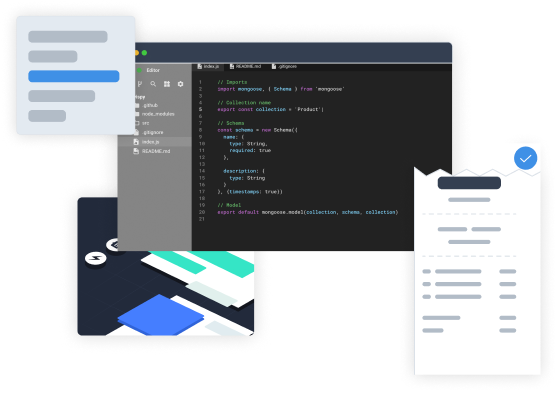
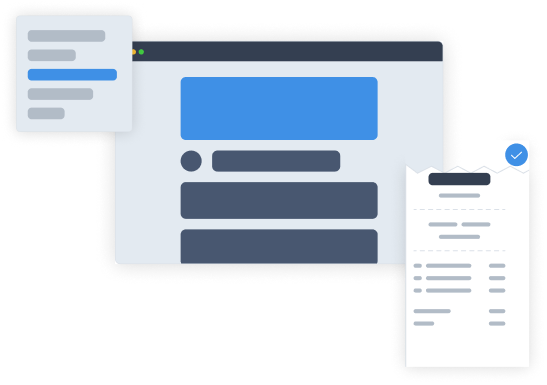
2nd updated more sections

diff --git a/index.html b/index.html
@@ -113,14 +113,14 @@
 
     </section>
 
-    <section class="w-[1920px] h-[7467px]">
+    <section class="flex flex-col gap-[128px] w-[1920px] h-[7467px] mt-[80px]">
 
         <!--FIRST MAIN DIV-->
 
         <DIV class="flex flex-col items-center gap-[24px] w-[425px] h-[162px] mx-auto">
             <div class="flex flex-col items-center gap-[16px] w-[425px] h-[91px] ">
                 <h1 class="w-[250px] h-[48px] text-[48px] text-center leading-[48px] tracking-[-1px] font-[600] bg-gradient-to-r from-[#FE3B76] via-[#AF29CE] to-[#2931DD] bg-clip-text text-transparent ">RAD Server</h1>
-                <p class="w-[425px] h-[27px] text-[18px] text-center leading-[27px] tracking-[0]">Rapidly build and deploy services-based applications!</p>
+                <p class="w-[425px] h-[27px] text-[18px] text-center leading-[27px] tracking-[0] text-[#525252]">Rapidly build and deploy services-based applications!</p>
             </div> 
             <button class="w-[179px] h-[47px] rounded-[12px] bg-[#262626] text-[#FFFFFF] px-[28px] py-[14px]">
                 <p class="w-[123px] h-[19px] leading-[19.2px] font-medium ">Request A Demo</p>
@@ -129,33 +129,290 @@
 
         <!--2ND MAIN DIV FOR MAIN SECTION-->
 
-        <DIV class="flex flex-col items-center w-[1536px] h-[1138px] mx-auto">
-            <div class="flex flex-col items-center w-[1274px] h-[180px] mt-[128px] gap-[24px]">
+        <DIV class="flex flex-col items-center w-[1536px] h-[1138px] mx-auto gap-[80px]">
+            <div class="flex flex-col items-center w-[1274px] h-[180px] gap-[24px]">
                 <p class="w-[912px] h-[48px] font-[600] text-[40px] leading-[48px] tracking-[-1px] text-center">The Perfect Platform for <span class="bg-gradient-to-r from-[#FE3B76] via-[#AF29CE] to-[#2931DD] bg-clip-text text-transparent"> Delphi and C++Builder Apps</span></p>
-                <p class="w-[1274px] h-[108px] font-[400] text-[24px] text-center tracking-[-1px] leading-[36px]">RAD Server supports REST with JSON (or XML) parameter passing and return results. Publish APIs, manage connected users and devices, capture analytics about the use and users of applications, and connect to local and enterprise databases using FireDAC components. RAD Server also supports user authentication, push notifications, geolocation, and data storage.</p>
+                <p class="w-[1274px] h-[108px] font-[400] text-[24px] text-center tracking-[-1px] leading-[36px] text-[#525252]">RAD Server supports REST with JSON (or XML) parameter passing and return results. Publish APIs, manage connected users and devices, capture analytics about the use and users of applications, and connect to local and enterprise databases using FireDAC components. RAD Server also supports user authentication, push notifications, geolocation, and data storage.</p>
             </div>
 
-            <div class="flex w-[1536px] h-[878px] rounded-[16px] mt-[80px]">
+            <div class="flex w-[1536px] h-[878px] rounded-[16px] ">
                 <div class="flex justify-center items-center w-[753px] h-[878px] bg-[#f4f4f5]">
                     <img class="w-[524px] h-[328.81px] " src="Assets/Group 1000003325.png" alt="img">
                 </div>
 
-                <div class="w-[783px] h-[878px]">
+                <div class="w-[783px] h-[878px] px-[32px] py-[48px]">
 
-                    <div class="w-[719px] h-[782px]">
-                        <div class="w-[719px] h-[92px]"></div>
-                        <div class="w-[719px] h-[92px]"></div>
-                        <div class="w-[719px] h-[92px]"></div>
-                        <div class="w-[719px] h-[92px]"></div>
-                        <div class="w-[719px] h-[92px]"></div>
-                        <div class="w-[719px] h-[92px]"></div>
-                        <div class="w-[719px] h-[65px]"></div>
+                    <div class="flex flex-col w-[719px] h-[782px] gap-[32px]">
+                        <div class="w-[719px] h-[92px]">
+                            <p class="w-[719px] h-[30px] font-semibold text-[20px] leading-[150%] text-[#262626]">Modernize</p>
+                            <p class="w-[719px] h-[54px] font-[400] text-[18px] text-[#525252]">Migrate existing Delphi or C++ client/server business logic to a modern services-based architecture that is secure and scalable.</p>
+                        </div>
+                        <div class="w-[719px] h-[92px]">
+                            <p class="w-[719px] h-[30px] font-semibold text-[20px] leading-[150%] text-[#262626]">REST End Point Publishing</p>
+                            <p class="w-[719px] h-[54px] font-[400] text-[18px] leading-[150%] text-[#525252]">Migrate existing Delphi or C++ client/server business logic to a modern services-based architecture that is secure and scalable.</p>
+                        </div>
+                        <div class="w-[719px] h-[65px]">
+                            <p class="w-[719px] h-[30px] font-semibold text-[20px] leading-[150%] text-[#262626]">REST End Point Publishing</p>
+                            <p class="w-[719px] h-[27px] font-[400] text-[18px] leading-[150%] text-[#525252]">An all-in-one turnkey foundation for your application back end APIs and Services.</p>
+                        </div>
+                        <div class="w-[719px] h-[92px]">
+                            <p class="w-[719px] h-[30px] font-semibold text-[20px] leading-[150%] text-[#262626]">Integration Middleware</p>
+                            <p class="w-[719px] h-[54px] font-[400] text-[18px] leading-[150%] text-[#525252]">Integrations provide out of the box connectivity with external servers, applications and services.</p>
+                        </div>
+                        <div class="w-[719px] h-[92px]">
+                            <p class="w-[719px] h-[30px] font-semibold text-[20px] leading-[150%] text-[#262626]">Application Services</p>
+                            <p class="w-[719px] h-[54px] font-[400] text-[18px] leading-[150%] text-[#525252]">Ready-to-use built-in services including user directory services and user management, push notifications, user location tracking, and built-in data storage.</p>
+                        </div>
+                        <div class="w-[719px] h-[92px]">
+                            <p class="w-[719px] h-[30px] font-semibold text-[20px] leading-[150%] text-[#262626]">Easy-To-Deploy</p>
+                            <p class="w-[719px] h-[54px] font-[400] text-[18px] leading-[150%] text-[#525252]">RAD Server is easy to develop, deploy and operate making it ideally suited for ISVs and OEMs building re-deployable solutions.</p>
+                        </div>
+                        <div class="w-[719px] h-[65px]">
+                            <p class="w-[719px] h-[30px] font-semibold text-[20px] leading-[150%] text-[#262626]">Delphi and C++Builder Support</p>
+                            <p class="w-[719px] h-[27px] font-[400] text-[18px] leading-[150%]">RAD Server works out of the box with Delphi and C++Builder.</p>
+                        </div>
 
                     </div>
                 </div>
 
             </div>
         </DIV>
+
+        <!--3rd MAIN DIV OF THIS SECTION-->
+        <DIV class="flex flex-col items-center gap-[80px] w-[1274px] h-[936px] mx-auto relative">
+            <img class="w-[62.47px] h-[114.07px] absolute right-[-31.23px] top-[16px]" src="Assets/Group.png" alt="img">
+
+            <div class="flex flex-col items-center gap-[24px] w-[1274px] h-[114px] text-[40px] text-center leading-[150%] tracking-[-1px] font-[600]  ">
+                <p class="w-[379px] h-[60px] text-center">Outstanding <span class="bg-gradient-to-r from-[#FE3B76] via-[#AF29CE] to-[#2931DD] bg-clip-text text-transparent"> Features </span> </p>
+                <p class="w-[1274px] h-[30px] text-[#525252] text-[20px] font-[400] leading-[150%] tracking-[-1px] text-center">Get RAD Server with RAD Studio, Delphi, and C++Builder</p>
+            </div>
+
+            <div class="flex flex-col gap-[48px] w-[1274px] h-[626px]">
+            <!--FIRST MAIN DIV ROW OF PIC -->
+            <DIV class="flex w-[1274px] h-[306px] gap-[32px]">
+                <div class="flex flex-col gap-[24px] w-[403.33px] h-[242px]">
+                    <img class="w-[48px] h-[48px]" src="Assets/code-svgrepo-com (1) 1.svg" alt="img">
+                    <h3 class="w-[403.33px] h-[34px] font-[600] text-[28px] text-[#222222] leading-[1.2] tracking-[-1.12px]">Access Control</h3>
+                    <p class="w-[403.33px] h-[120px] text-[#707070] text-[20px] font-[400] leading-[1.5] tracking-[-0.1px]">You can set up group and user level access, with authentication, to all application APIs and control who has access to your application's API functionality.</p>
+                </div>
+                <div class="flex flex-col gap-[24px] w-[403.33px] h-[212px]">
+                    <img class="w-[48px] h-[48px]" src="Assets/cloud-data 1.png" alt="img">
+                    <h3 class="w-[403.33px] h-[34px] font-[600] text-[28px] text-[#222222] leading-[1.2] tracking-[-1.12px]">API Analytics</h3>
+                    <p class="w-[403.33px] h-[90px] text-[#707070] text-[20px] font-[400] leading-[1.5] tracking-[0]">All REST API end-point activity is recorded and measured for robust statistics tracking and analytics.</p>
+                </div>
+                <div class="flex flex-col gap-[24px] w-[403.33px] h-[306px]">
+                    <img class="w-[48px] h-[48px]" src="Assets/responsive 2.png" alt="img">
+                    <h3 class="w-[403.33px] h-[68px] font-[600] text-[28px] text-[#222222] leading-[1.2] tracking-[-1.12px]">Desktop, Mobile & Web Client Apps</h3>
+                    <p class="w-[403.33px] h-[150px] text-[#707070] text-[20px] font-[400] leading-[1.5] tracking-[0]">All C++ and Delphi code hosted on RAD Server is published as REST/JSON end points consumable by any client application on multiple platforms for extreme flexibility and future-proofing.</p>
+                </div>
+            </DIV>
+
+            <!--SECOND MAIN DIV ROW OF PIC DIVS-->
+            <DIV class="flex w-[1274px] h-[272px] gap-[32px]">
+               <div class="flex flex-col gap-[24px] w-[403.33px] h-[272px]">
+                <img class="w-[48px] h-[48px]" src="Assets/goal 1.png" alt="img">
+                <h3 class="w-[403.33px] h-[34px] font-[600] text-[28px] text-[#222222] leading-[1.2] tracking-[-1.12px]">Enterprise Data</h3>
+                <p class="w-[403.33px] h-[150px] text-[#707070] text-[20px] font-[400] leading-[1.5] tracking-[0]">RAD Server delivers high performance built-in connectivity to all popular Enterprise RDBMS servers such as Oracle, DB2, Microsoft SQL Server, InterBase, Informix, MySQL Server, etc.</p>
+               </div>
+               <div class="flex flex-col gap-[24px] w-[403.33px] h-[212px]">
+                <img class="w-[48px] h-[48px]" src="Assets/internet-of-things 1.png" alt="img">
+                <h3 class="w-[403.33px] h-[34px] font-[600] text-[28px] text-[#222222] leading-[1.2] tracking-[-1.12px]">IoT Smart Device Connectivity</h3>
+                <p class="w-[403.33px] h-[90px] text-[#707070] text-[20px] font-[400] leading-[30px] tracking-[0]">RAD Studio's IoT components enable fast and easy integration of IoT Smart devices into your application's services.</p>
+               </div>
+               <div class="flex flex-col gap-[24px] w-[403.33px] h-[212px]">
+                <img class="w-[48px] h-[48px]" src="Assets/cloud-computing 1.png" alt="img">
+                <h3 class="w-[403.33px] h-[34px] font-[600] text-[28px] text-[#222222] leading-[1.2] tracking-[-1.12px]">Cloud Services</h3>
+                <p class="w-[403.33px] h-[140px] text-[#707070] text-[20px] font-[400] leading-[1.5] tracking-[0]">Easily integrate REST cloud services from a variety of cloud, social, and BaaS platforms such as Google, Amazon, and more.</p>
+               </div> 
+
+            </DIV>
+             </div>
+
+             <div class="flex  gap-[16px] w-[88px] h-[36px]">
+                <button class="flex justify-center w-[36px] text-[#FFFFFF] h-[36px] rounded-[8px] px-[4px] py-[6px] bg-[#262626]/20 text-center">
+                    <p class="w-[22px] h-[8px]">←</p>
+                </button>
+                <button class="flex w-[36px] justify-center text-[#FFFFFF] h-[36px] rounded-[8px] px-[4px] py-[6px] bg-[#262626] text-center">
+                    <p class="w-[26px] h-[8px]">→</p>
+                </button>
+             </div>
+
+        </DIV>
+
+        <!--THRID MAIN DIV FOR THIS SECTION-->
+
+    <DIV class="flex flex-col gap-[80px] w-[1536px] h-[1036px] mx-auto ">
+        
+        <!--UPPER MAIN DIV-->
+        <div class="flex flex-col items-center gap-[56px] w-[1536px] h-[291px]">
+            <div class="flex gap-[4px] border-[#E5E5E5] rounded-[16px] w-[1536px] h-[73px] border-1 p-[8px]">
+                <button class="w-[377px] h-[57px] text-[24px] text-center font-[500] leading-[1.2] tracking-[-1px] rounded-[12px] px-[24px] py-[14px]">
+                    <p class="w-[329px] h-[29px] text-[#525252]">N Tier Architecture</p>
+                </button>
+                <button class="w-[377px] h-[57px] text-[24px] bg-[#262626] text-center leading-[1.2] tracking-[-1px] rounded-[12px] px-[24px] py-[14px]">
+                    <p class="w-[329px] h-[29px] text-[#FAFAFA] font-[500]">Rest End Point</p>
+                </button>
+                <button class="w-[377px] h-[57px] text-[24px] text-center  leading-[1.2] tracking-[-1px] rounded-[12px] px-[24px] py-[14px]">
+                    <p class="w-[329px] h-[29px] text-[#525252] font-[500]">Integration Middleware</p>
+                </button>
+                <button class="w-[377px] h-[57px] text-[24px] text-center  leading-[1.2] tracking-[-1px] rounded-[12px] px-[24px] py-[14px]">
+                    <p class="w-[329px] h-[29px] text-[#525252] font-[500]">Application Services</p>
+                </button>
+            </div>
+            <div class="flex flex-col items-center w-[1274px] h-[162px] gap-[24px]">
+                <p class="w-[464px] h-[48px] text-[40px] font-[600] leading-[1.2] tracking-[-1px] text-center bg-gradient-to-r from-[#FE3B76] via-[#FE3B76CC]/80 via-[#2931DDCC]/80 to-[#2931DD] bg-clip-text text-transparent">REST Endpoint Publishing</p>
+                <p class="w-[1274px] h-[90px] text-[20px] font-[400] leading-[1.5] tracking-[-1px] text-center text-[#525252]">Easy REST API Endpoint Creation, Publishing, And Management. RAD Server automatically generates managed REST/JSON API endpoints from your Delphi or C++ business logic. Since your Delphi and C++ APIs are published as heterogeneous REST/JSON endpoints, RAD Server easily supports virtually any client type: desktop, mobile and wearable clients, and popular JavaScript Web Frameworks.</p>
+            </div>
+        </div>
+        <!--LOWER MAIN DIV-->
+        <div class="flex w-[1536px] h-[668px] ">
+            <div class="flex items-center justify-center w-[883px] h-[668px] bg-[#f5f5f5]">
+                <img class="w-[513] h-[351.28px]" src="Assets/Group 1000003325.png" alt="img">
+            </div>
+            <div class="w-[653px] h-[668px] px-[32px] py-[48px]">
+                <div class="flex flex-col gap-[32px] w-[589px] h-[572px]">
+                    <div class="w-[589px] h-[119px] ">
+                        <p class="w-[589px] h-[30px] text-[20px] font-[600] leading-[1.5] tracking-0 text-[#262626]">REST Endpoint Publishing</p>
+                        <p class="w-[589px] h-[81px] text-[#525252] text-[18px] font-[400] leading-[1.5] tracking-0">Create and publish your server REST/JSON API-based endpoints. Endpoints can be extended by integrating a wide range of databases, cloud services, IoT devices, and other technologies.</p>
+                    </div>
+                    <div class="w-[589px] h-[119px] ">
+                        <p class="w-[589px] h-[30px] text-[20px] font-[600] leading-[1.5] tracking-0 text-[#262626]">API Analytics</p>
+                        <p class="w-[589px] h-[81px] text-[#525252] text-[18px] font-[400] leading-[1.5] tracking-0">All REST API end-point activity is recorded and measured for robust statistics tracking and analytics. Analyze user, API, and services activity to gain insight into how your application is being utilized.</p>
+                    </div>
+                    <div class="w-[589px] h-[119px] ">
+                        <p class="w-[589px] h-[30px] text-[20px] font-[600] leading-[1.5] tracking-0 text-[#262626]">Access Control</p>
+                        <p class="w-[589px] h-[81px] text-[#525252] text-[18px] font-[400] leading-[1.5] tracking-0">Add users via console portal and import, or authenticate users via LDAP-based API services. Easily configure API-level access control to user groups.</p>
+                    </div>
+                    <div class="w-[589px] h-[119px] ">
+                        <p class="w-[589px] h-[30px] text-[20px] font-[600] leading-[1.5] tracking-0 text-[#262626]">Desktop, Mobile & Web</p>
+                        <p class="w-[589px] h-[81px] text-[#525252] text-[18px] font-[400] leading-[1.5] tracking-0">Build desktop, mobile, web, console, and other application types supported by RAD Studio. Web client applications can be built using Sencha Ext JS or other programming languages.</p>
+                    </div>
+                </div>
+            </div>
+        </div>
+    </DIV>
+
+    <!--4th MAIN DIV FOR THIS SECTION-->
+    <DIV class="flex flex-col items-center justify-center relative w-[1920px] h-[562px]">
+        <img class="absolute left-0 bottom-0 " src="Assets/Vector.png" alt="img">
+        <img class="absolute right-0 bottom-0" src="Assets/Vector1.png" alt="img">
+        <div class="flex flex-col items-center w-[1274px] h-[252px] gap-[32px]">
+
+            <div class="flex flex-col items-center gap-[16px] w-[1274px] h-[172px] ">
+                <p class="w-[282px] h-[48px] font-[700] text-[40px] leading-[1.2] tracking-[-1px] text-center">Try <span class="font-semibold bg-gradient-to-r from-[#FE3B76] via-[#AF29CE] to-[#2931DD] bg-clip-text text-transparent"> RAD Server!</span></p>
+                <p class="w-[1274px] h-[108px] font-[400] text-[24px] leading-[1.5] tracking-0 text-[#525252] text-center">InterBase is a powerful, zero-administration, small-footprint database engine that can power your server and even run on your mobile devices as an embedded database. The InterBase 2020 release adds a number of new features, including tablespaces support for InterBase, allowing for better performance on servers with multiple data-storage options.</p>
+            </div>
+            <button class="w-[158px] h-[48px] text-center bg-[#171717] rounded-[10px] px-[24px] py-[12px]">
+                <p class="w-[110px] h-[24px] font-[500] text-[16px] leading-[24px] tracking-0 text-[#525252] text-[#FFFFFF]">Download Now</p>
+            </button>
+        </div>
+
+    </DIV>
+
+    <!--5th MAIN DIV OF THIS SECTION -->
+    <DIV class="flex flex-col gap-[32px] w-[1014px] h-[733px] mx-auto">
+        <!--Upper main div -->
+        <div class="flex flex-col items-center w-[1014px] h-[104px] gap-[8px]">
+            <p class="w-[981px] h-[60px] font-[600] text-[40px] leading-[1.5] tracking-[-1px] text-center">Get RAD Server with <span class="bg-gradient-to-r from-[#FE3B76] via-[#AF29CE] to-[#AF29CE] bg-clip-text text-transparent"> RAD Studio, Delphi and C++Builder</span></p>
+            <p class="w-[630px] h-[36px] font-[400] text-[24px] leading-[1.5] tracking-[0] text-[#262626]">RAD Server Is Included In Enterprise And Architect Editions</p>
+        </div>
+
+        <!--middle main div -->
+        <div class="flex items-center justify-center w-[1014px] h-[312px]">
+            <img src="Assets/Group 811560.png" alt="img">
+        </div>
+
+        <!--lower main div -->
+        <div class="flex flex-col gap-[24px] w-[1014px] h-[253px]">
+            <p class="w-[1014px] h-[54px] text-[18px] font-[400] leading-[1.5] tracking-0 text-[#525252]">Beginning with version 10.2 Release 2, RAD Server deployment licenses are included in Enterprise and Architect editions of RAD Studio, Delphi and C++Builder.</p>
+            <ul class="w-[1014px] h-[97px] list-disc list-outside ml-5 space-y-3">
+                <li class="w-[1014px] h-[27px] font-[400] text-[18px]  text-[#525252] leading-[1.5] tracking-0">Enterprise editions include a single-site deployment license for RAD Server.</li>
+                <li class="w-[1014px] h-[54px] font-[400] text-[18px]  text-[#525252] leading-[1.5] tracking-0">Architect editions now include a multi-site deployment license for RAD Server (beginning with version 10.2.3 for Architect customers on active Update Subscription).</li>
+            </ul>
+            <p class="w-[1014px] h-[54px] text-[18px] font-[400] leading-[1.5] tracking-0 text-[#525252]">Developing and testing REST endpoints, Location Tracking or IoT Edgeware for RAD Server requires an Enterprise or Architect edition of RAD Studio, Delphi or C +Builder 10.1 Berlin or newer.</p>
+        </div>
+
+    </DIV>
+
+    <div class="flex flex-col items-center w-[1536px] h-[817px] gap-[53px] mx-auto">
+        <!--DIV ABOVE TABLE-->
+        <div class="flex flex-col items-center w-[1274px] h-[323px] gap-[32px]">
+            <div class="flex flex-col items-center w-[287px] h-[87px] ">
+                <p class="w-[287px] h-[60px] text-[40px] font-[600] leading-[1.5] tracking-[-1px] text-center"><span class="bg-gradient-to-r from-[#FE3B76] via-[#AF29CE] to-[#2931DD] bg-clip-text text-transparent">Add RAD</span> Server</p>
+                <p class="w-[200px] h-[27px] text-[18px] font-[400] leading-[1.5] tracking-[-1px] text-[#525252] text-center">Simple to use. Simple to buy.</p>
+            </div>
+            <div class="flex flex-col items-center w-[1274px] h-[125px] gap-[8px]">
+                <p class="w-[885px] h-[36px] text-[24px] font-[600] leading-[1.5] tracking-[-1px] text-center">RAD Server requires Enterprise or Architect edition of RAD Studio, Delphi, or C++Builder.</p>
+                <p class="w-[1274px] h-[81px] text-[18px] font-[400] leading-[1.5] tracking-[-1px] text-[#525252] text-center">If you have Enterprise or Architect Editions (10.1 or earlier), you can purchase a single or multi-site license covering unlimited users for an application. If you have Enterprise Edition (10.2 or later), you can upgrade from a single-site license to a multi-site license. All Architect Editions starting with 10.2.3 come with RAD Server multi-site license. Enterprise and Architect Editions starting with 11.0 include the option to request a free RAD Server Lite license.</p>
+            </div>
+            <div class="flex gap-[16px] w-[352px] h-[47px]">
+                <button class="flex w-[188px] h-[47px] rounded-[12px] px-[28px] py-[14px] text-[#FFFFFF] bg-[#262626]">
+                    <p class="w-[132px] h-[19px] text-[16px] font-[500] leading-[1.2] tracking-0">Request Evalation</p>
+                </button>
+                <button class="w-[188px] h-[47px] rounded-[12px] px-[28px] py-[14px] text-[#262626] border-1 ">
+                    <p class="w-[92px] h-[19px] text-[16px] font-[500] leading-[1.2] tracking-0">Request Info</p>
+                </button>
+            </div>
+        </div>
+
+        <!--TABLE-->
+        
+
+    <TABLE class="w-[1540px] h-[441px] border-1">
+        <thead class="">
+            <tr >
+            <td class="text-[#171717] w-[384px] h-[63px] p-[16px] text-[16px] font-[500] leading-[1.5] tracking-0">Buying Options</td>
+            <th class="text-[#171717] w-[384px] h-[63px] p-[16px] text-[16px] font-[500] leading-[1.5] tracking-0">RAD Server Lite</th>
+            <th class="text-[#171717] w-[384px] h-[63px] p-[16px] text-[16px] font-[500] leading-[1.5] tracking-0">Single-Site License</th>
+            <th class="text-[#171717] w-[384px] h-[63px] p-[16px] text-[16px] font-[500] leading-[1.5] tracking-0">Multi-Site License</th>
+            </tr>
+        </thead>
+        <tbody>
+            <tr class="">
+                <td class=" w-[384px] h-[63px] p-[16px] text-[16px] font-[400] leading-[1.5] tracking-0 text-[#525252] ">Unlimited users per site</td>
+                <td class=" w-[384px] h-[63px] p-[16px] text-[16px] font-[400] leading-[1.5] tracking-0 text-[#525252] ">1</td>
+                <td class="flex w-[384px] h-[63px] p-[16px] text-[16px] font-[400] leading-[1.5] tracking-0 text-[#525252] ">2</td>
+                <td class="flex w-[384px] h-[63px] p-[16px] text-[16px] font-[400] leading-[1.5] tracking-0 text-[#525252] "><p>3</p></td>
+                 </tr>
+                <tr>
+                <td class=" w-[384px] h-[63px] p-[16px] text-[16px] font-[400] leading-[1.5] tracking-0 text-[#525252] ">Single Site</td>
+                <td class=" w-[384px] h-[63px] p-[16px] text-[16px] font-[400] leading-[1.5] tracking-0 text-[#525252] ">1</td>
+                <td class=" w-[384px] h-[63px] p-[16px] text-[16px] font-[400] leading-[1.5] tracking-0 text-[#525252] ">2</td>
+                <td class="flex justify-center w-[384px] h-[63px] p-[16px] text-[16px] font-[400] leading-[1.5] tracking-0 text-[#525252] ">3</td>
+                </tr>
+                <tr>
+                <td class=" w-[384px] h-[63px] p-[16px] text-[16px] font-[400] leading-[1.5] tracking-0 text-[#525252] ">Single/Multi-Site</td>
+                <td class=" w-[384px] h-[63px] p-[16px] text-[16px] font-[400] leading-[1.5] tracking-0 text-[#525252] ">1</td>
+                <td class=" w-[384px] h-[63px] p-[16px] text-[16px] font-[400] leading-[1.5] tracking-0 text-[#525252] ">2</td>
+                <td class="flex justify-center  w-[384px] h-[63px] p-[16px] text-[16px] font-[400] leading-[1.5] tracking-0 text-[#525252] ">3</td>
+                </tr>
+                <tr>
+                <td class=" w-[384px] h-[63px] p-[16px] text-[16px] font-[400] leading-[1.5] tracking-0 text-[#525252] ">REST Endpoint Publishing</td>
+                <td class=" w-[384px] h-[63px] p-[16px] text-[16px] font-[400] leading-[1.5] tracking-0 text-[#525252] ">1</td>
+                <td class=" w-[384px] h-[63px] p-[16px] text-[16px] font-[400] leading-[1.5] tracking-0 text-[#525252] ">2</td>
+                <td class="flex justify-center  w-[384px] h-[63px] p-[16px] text-[16px] font-[400] leading-[1.5] tracking-0 text-[#525252] ">3</td>
+                </tr>
+                <tr>
+                <td class=" w-[384px] h-[63px] p-[16px] text-[16px] font-[400] leading-[1.5] tracking-0 text-[#525252] ">Integration Middleware</td>
+                <td class=" w-[384px] h-[63px] p-[16px] text-[16px] font-[400] leading-[1.5] tracking-0 text-[#525252] ">1</td>
+                <td class=" w-[384px] h-[63px] p-[16px] text-[16px] font-[400] leading-[1.5] tracking-0 text-[#525252] ">2</td>
+                <td class="flex justify-center  w-[384px] h-[63px] p-[16px] text-[16px] font-[400] leading-[1.5] tracking-0 text-[#525252] ">3</td>
+                </tr>
+                <tr>
+                <td class=" w-[384px] h-[63px] p-[16px] text-[16px] font-[400] leading-[1.5] tracking-0 text-[#525252] ">Application Services</td>
+                <td class=" w-[384px] h-[63px] p-[16px] text-[16px] font-[400] leading-[1.5] tracking-0 text-[#525252] ">1</td>
+                <td class=" w-[384px] h-[63px] p-[16px] text-[16px] font-[400] leading-[1.5] tracking-0 text-[#525252] ">2</td>
+                <td class="flex justify-center w-[384px] h-[63px] p-[16px] text-[16px] font-[400] leading-[1.5] tracking-0 text-[#525252] ">3</td>
+                </tr>
+           
+        </tbody>
+
+    
+    </TABLE>
+    </div>
+
+    
+    
     </section>
   </body>
 </html>